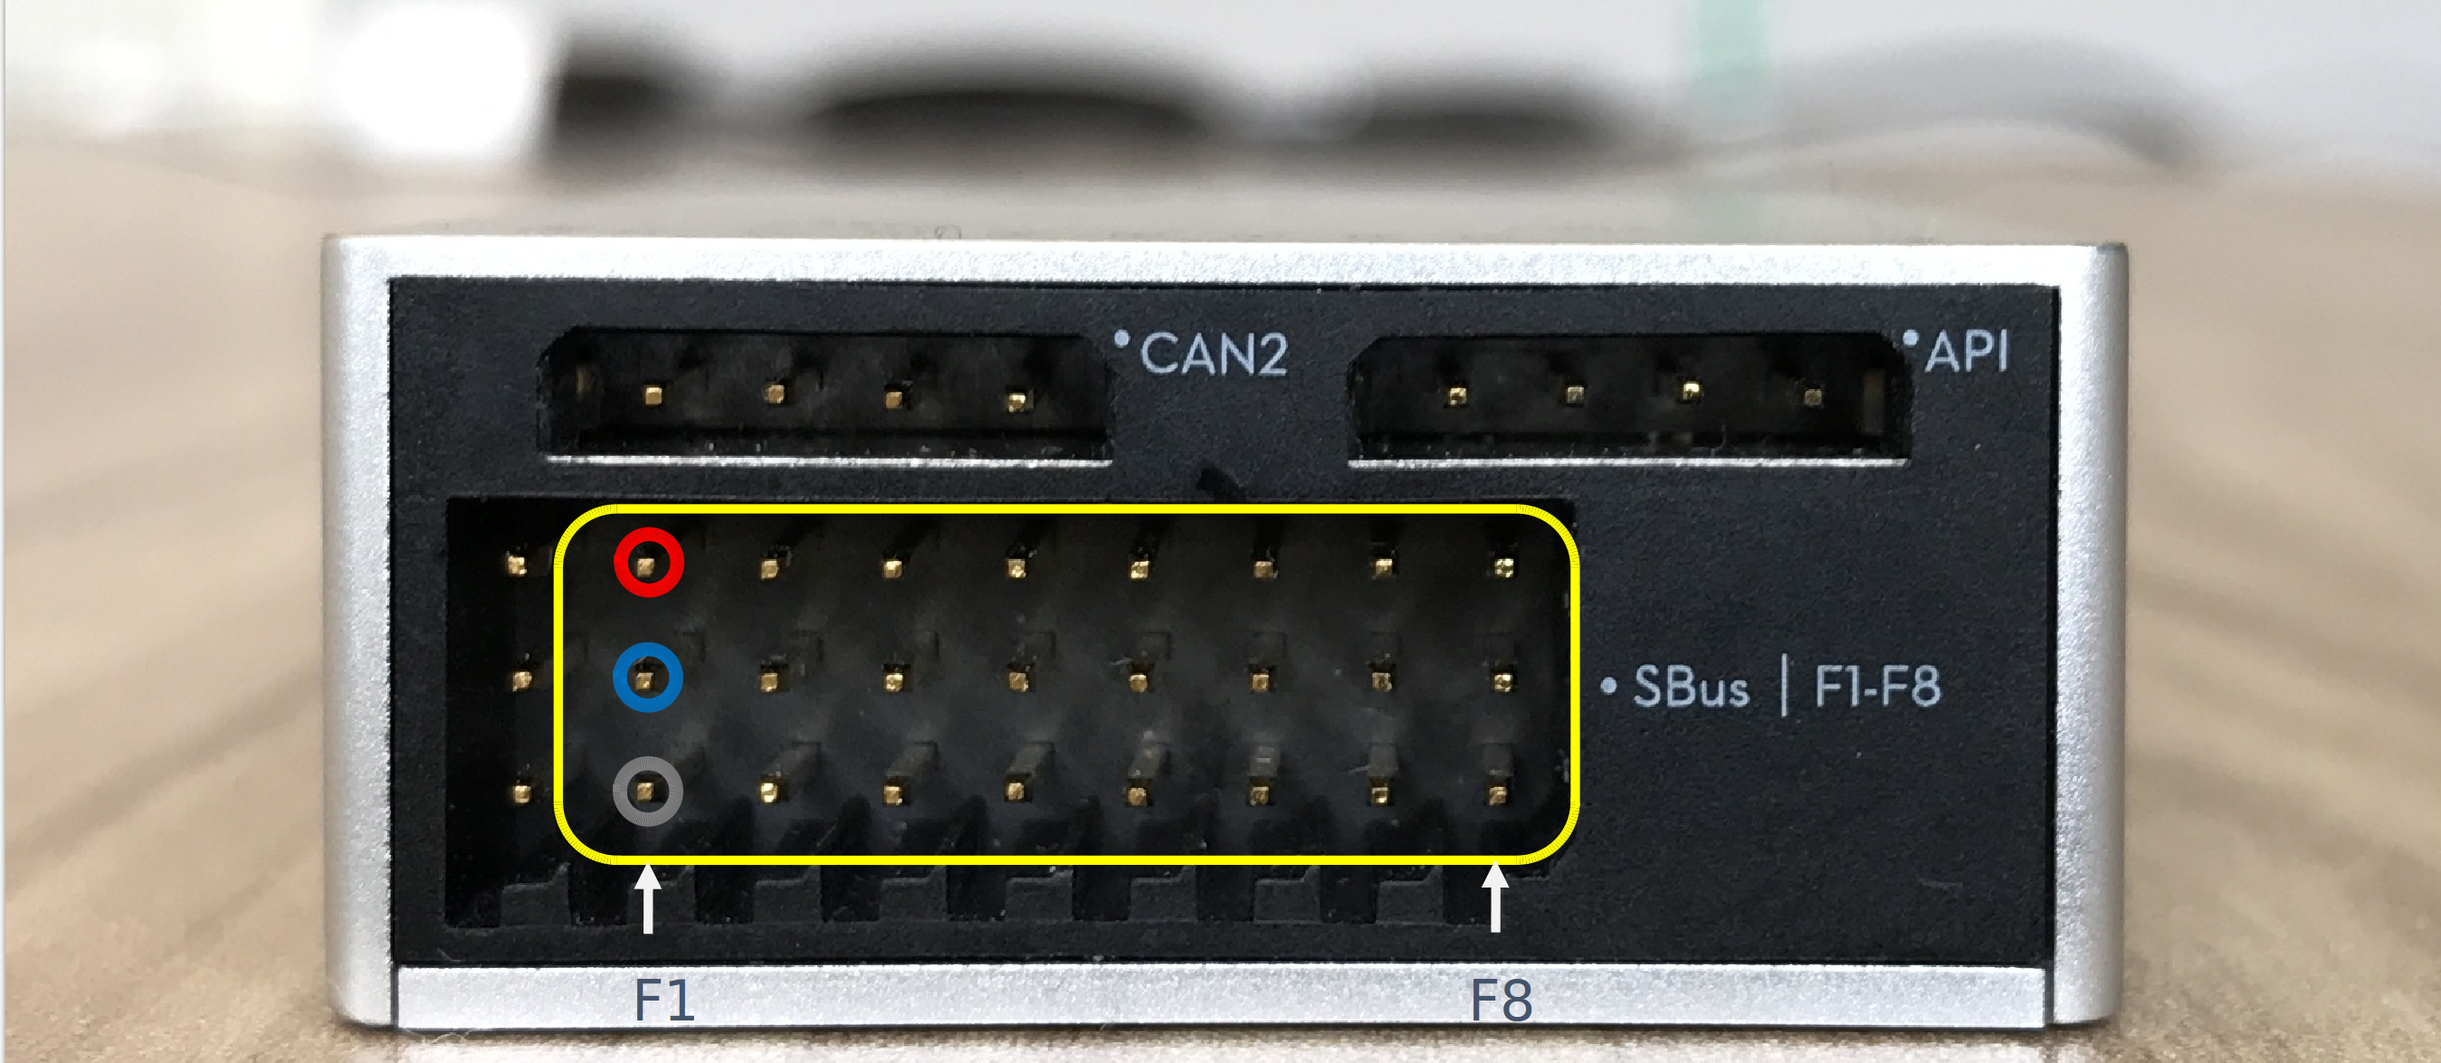
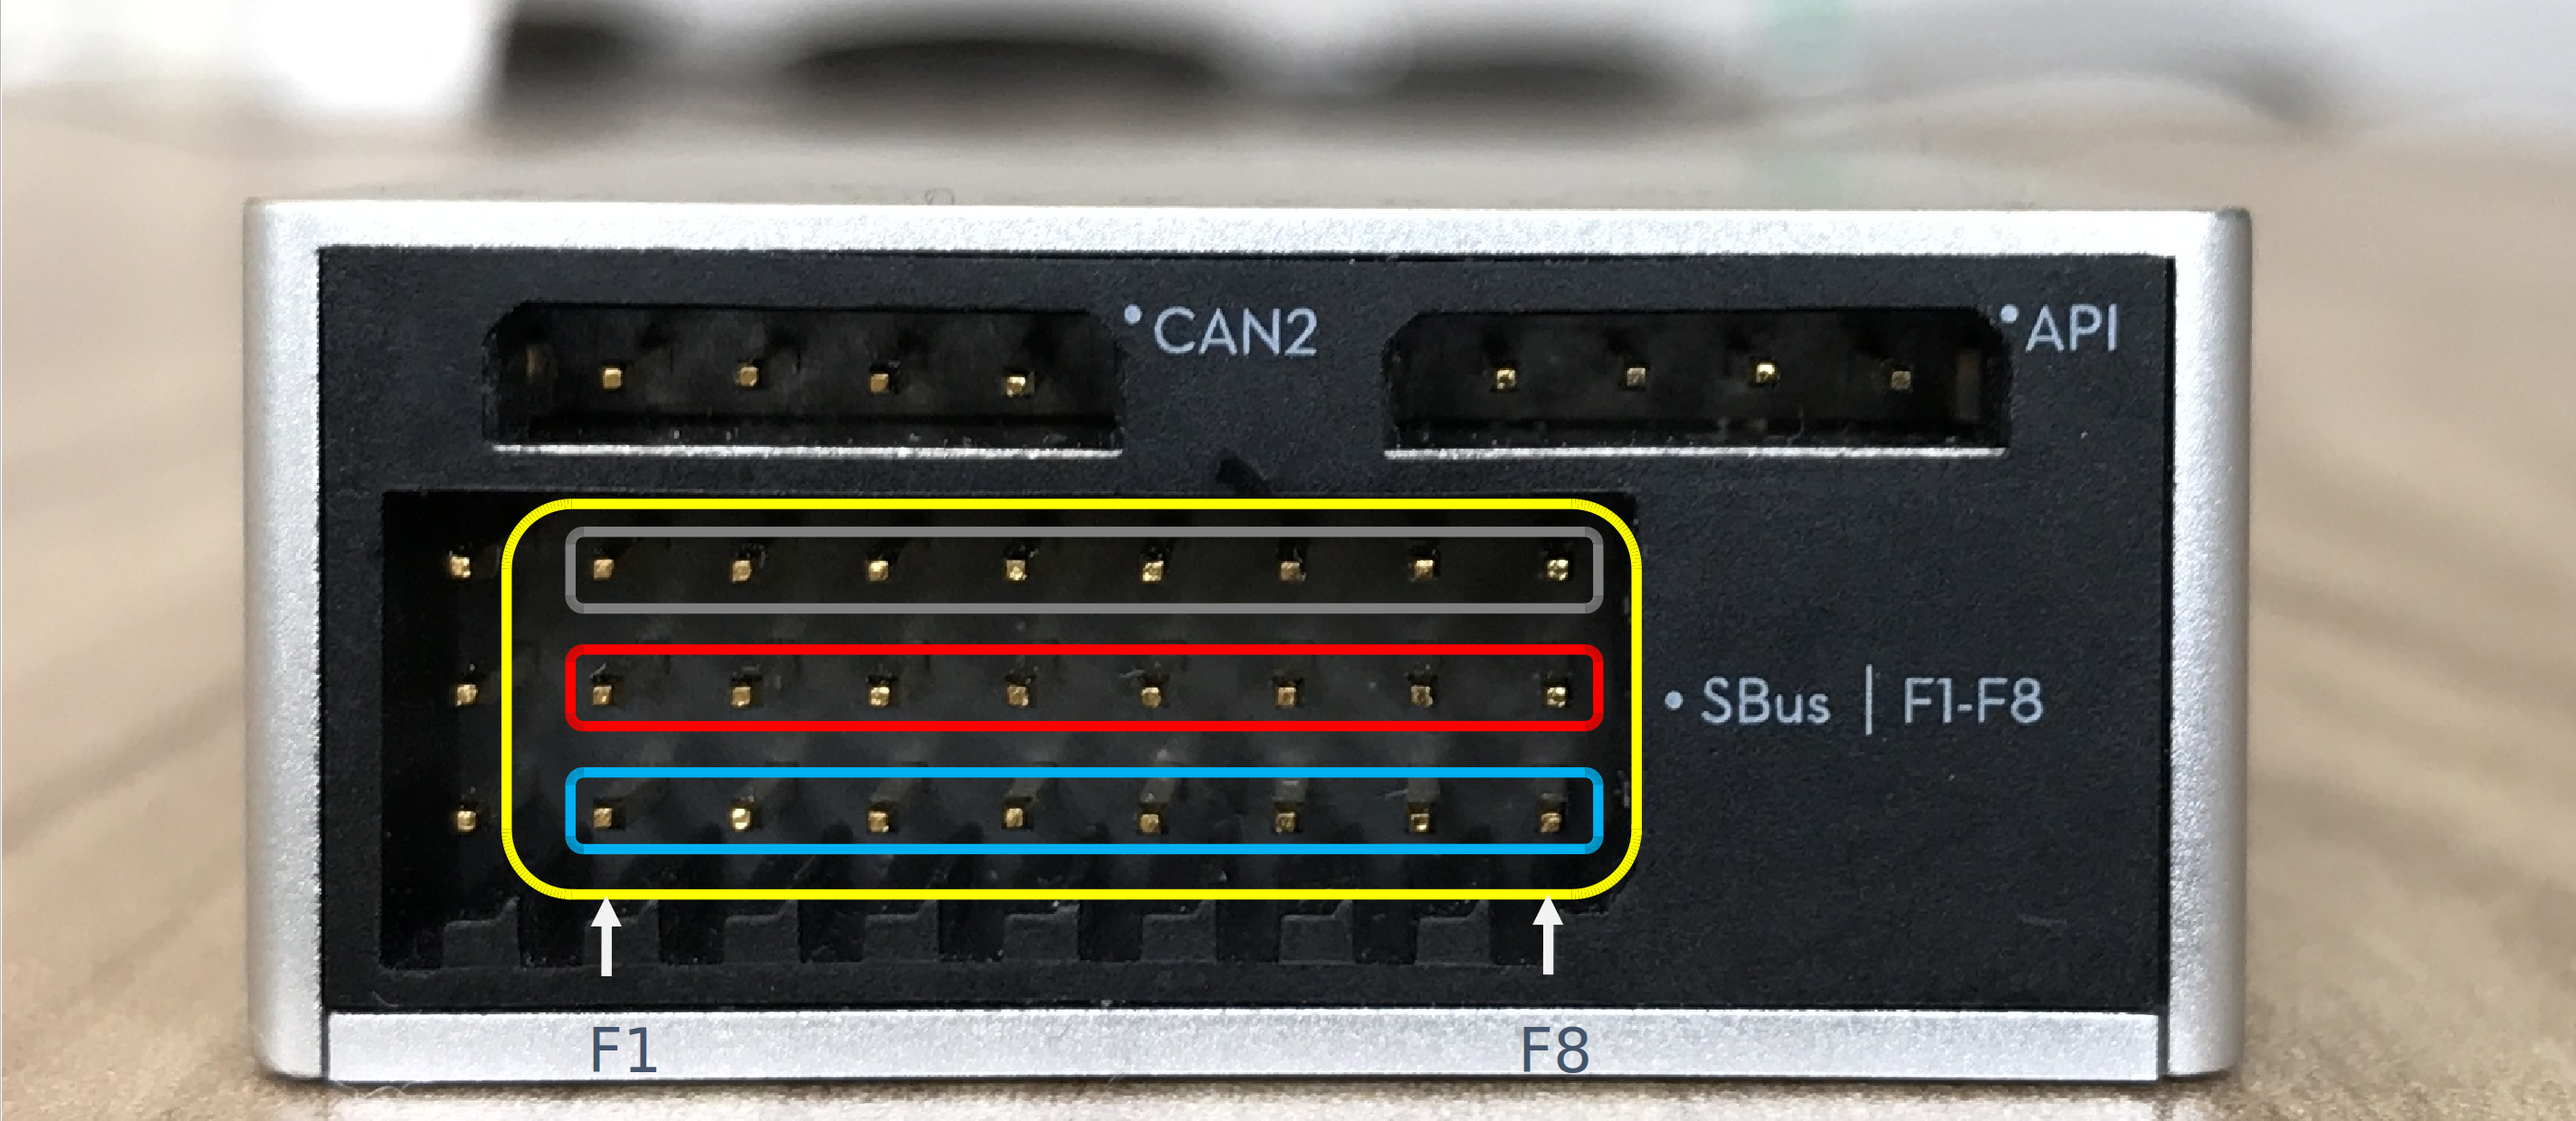
Final commit to MFIO guide - fix image and some text

diff --git a/source/guides/component-guide-multi-function-io.md b/source/guides/component-guide-multi-function-io.md
@@ -6,7 +6,7 @@ keywords: []
 
 ## Introduction
 
-The Multi Function IO feature of the A3 and N3 Flight Controller supports reading and writing PWM signals, Analog to Digital Conversion and General Purpose Input Output. These new feature are being introduced
+The Multi Function IO feature of the A3 and N3 Flight Controller supports reading and writing PWM signals, Analog to Digital Conversion and General Purpose Input Output. These new features are being introduced
   in order to avoid having to arrange additional circuitry or microcontrollers for the mentioned low level functionalities. 
  
 ### PWM
@@ -23,16 +23,16 @@ The A3 and N3 Flight Controller supports reading Analog signals and converting t
 ### GPIO 
 
 General Purpose Input Output pins are digital control lines to read and write data. 
-The A3 and N3 Flight Controller supports configuring a user defined pin to GPIO. 
+The A3 and N3 Flight Controller supports configuring multiple pins to have GPIO functionality. 
 
 ## Onboard SDK MFIO 
 
 The image below shows the pins that are available for MFIO functionality.
  
-* Pins F1-F8 can be configured for MFIO functionality. 
-* Pin with red box around it is Voltage. 
-* Pin with blue box around it is Signal. 
-* Pin with gray box around it is Ground. 
+* Pins F1-F8 (vertical colomns from left to right) can be configured for MFIO functionality. 
+* Pin with red box around are Voltage pins. 
+* Pin with blue box around it are Signal pins. 
+* Pin with gray box around it are Ground pins. 
 * F1-F4 can be configured to be Input pins
 * F5-F8 can be configured to be Input or Output pins
 
